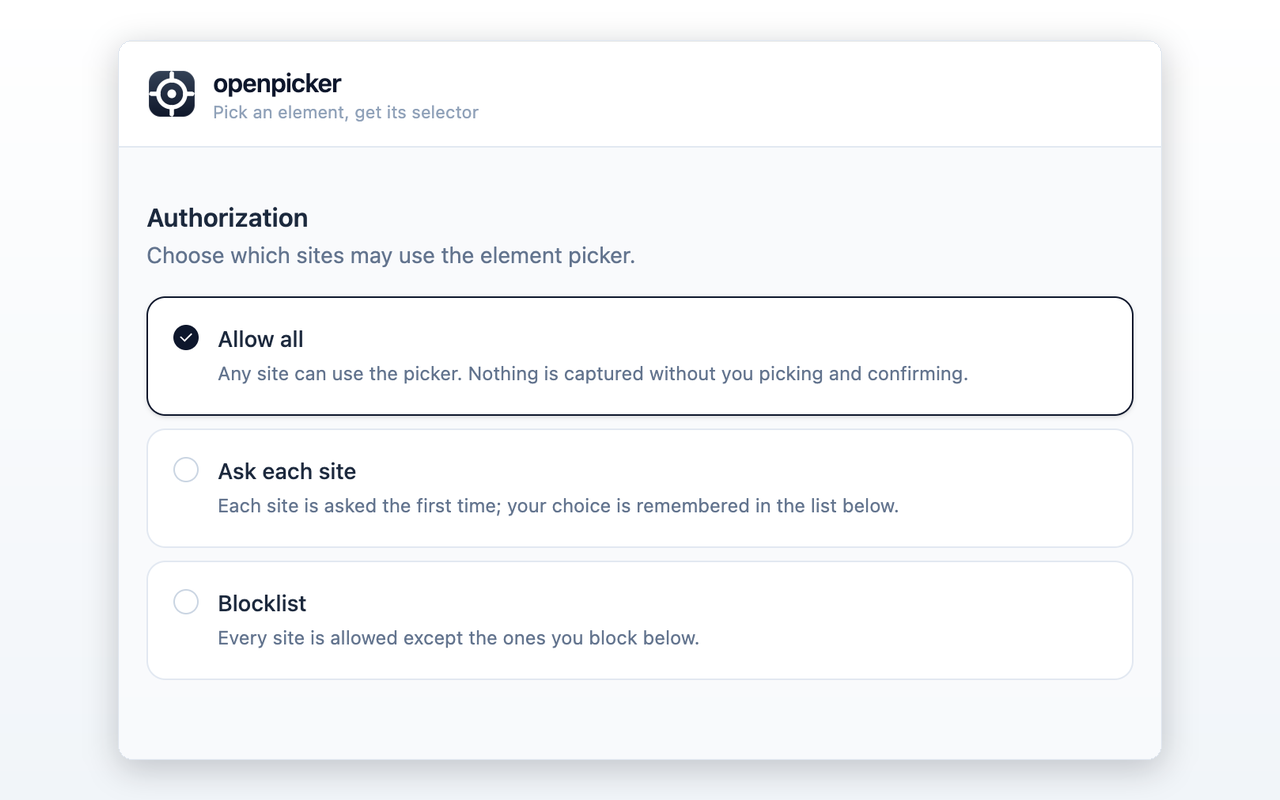
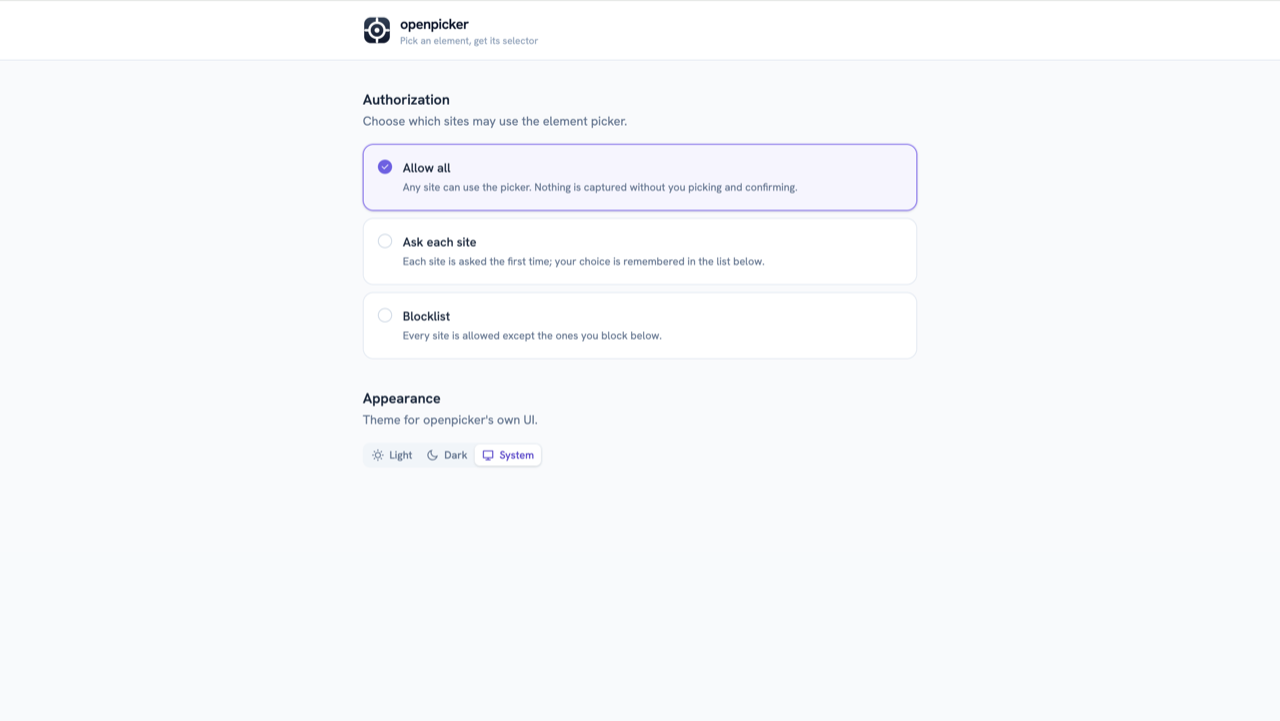
docs: refresh screenshots for the redesigned UI
Replace the popup, picker, and options screenshots with captures of the
new "precision instrument" UI (syntax-highlighted selector, violet accent,
bundled fonts, floating sidebar), and add a selector-settings shot to the
Configuring selectors guide (which previously had no image).

diff --git a/apps/docs/guide/configuring-selectors.md b/apps/docs/guide/configuring-selectors.md
@@ -6,6 +6,8 @@ class names. openpicker lets you control **how selectors are built**, and rememb
 Open the settings from the **gear** button in the sidebar header (visible once an element is
 selected).
 
+![The selector settings popover: enable or disable ID / class / attribute anchors, each with its own ignore/allow filter](/selector-settings.png)
+
 ## What you can control
 
 Each part of an element can be enabled or disabled as a selector anchor:
